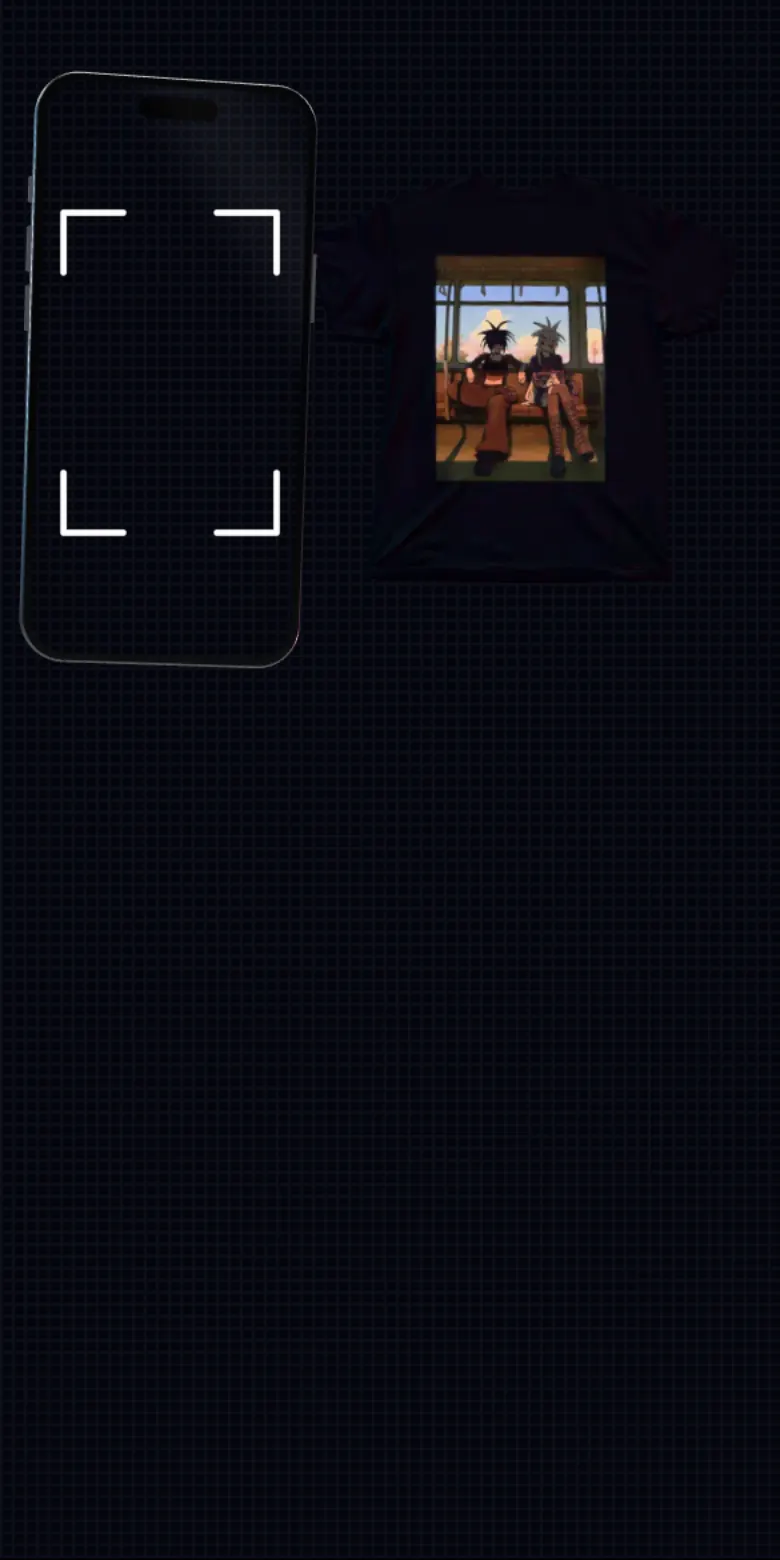
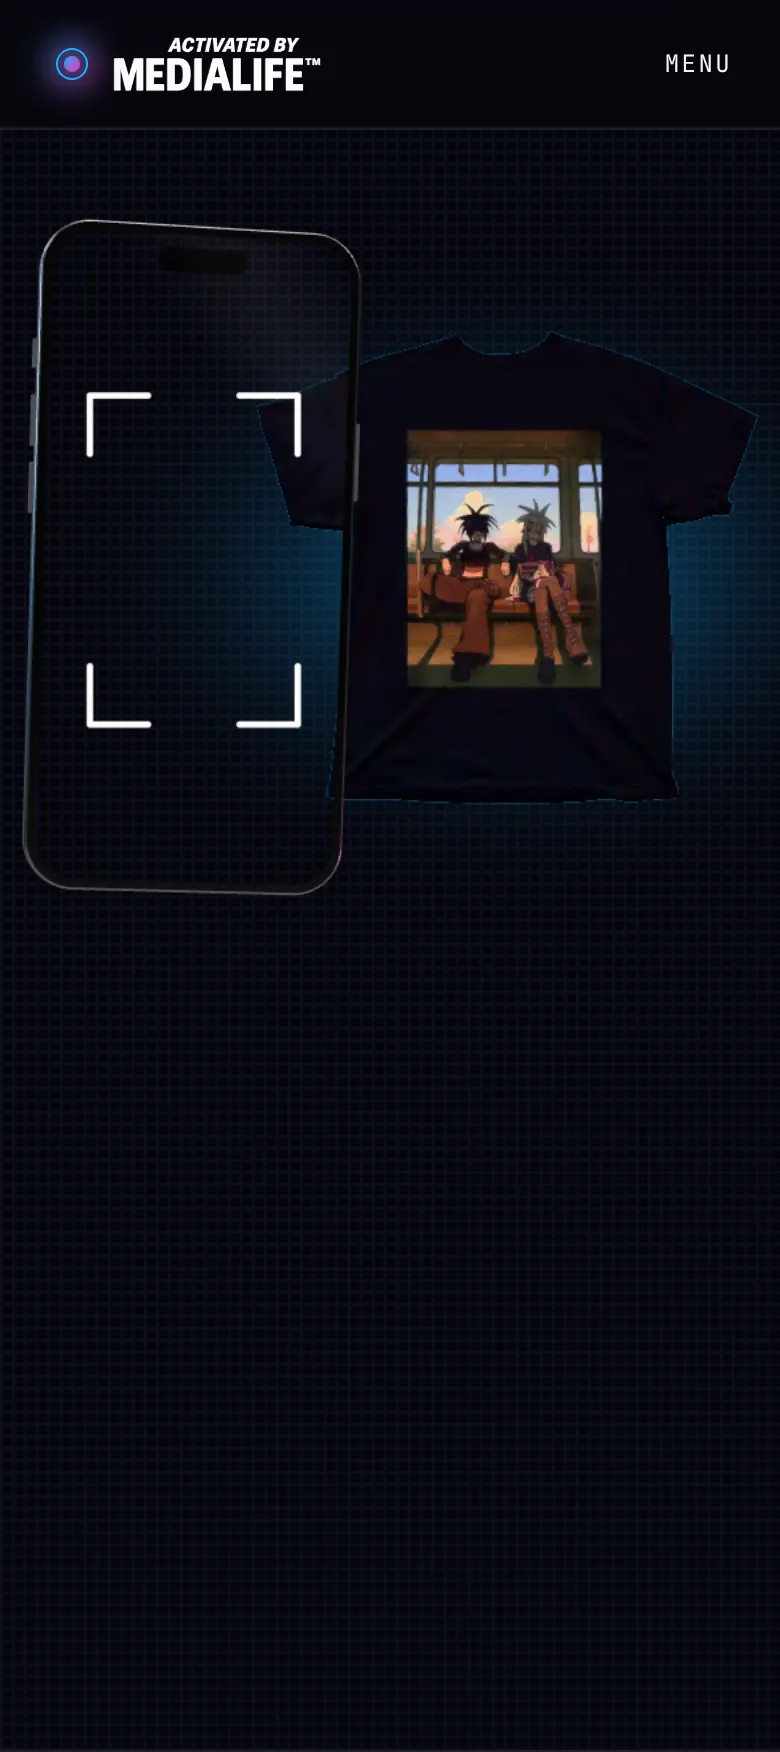
Homepage hero: mobile titles and taller stage, accent glow behind pieces
- Phones: the hero is a little taller, with a bigger phone and pieces, and
  each piece's title sits over the stage: Activated apparel, Immersive
  marketing, Immersive merchandising (title/detail in hero-slides.ts).
- A soft glow in the piece's accent sits behind it, so the black tee reads
  on the dark page (glow per slide).
- Posters regenerated.

Claude-Session: https://claude.ai/code/session_011BHdrdXLD92kz8Hk5bHre9

diff --git a/src/components/home/ar-stage.ts b/src/components/home/ar-stage.ts
@@ -53,7 +53,7 @@ export type ArEvents = {
   /** The phone follows the mouse (true), or holds still on a live design (false). */
   onFollow?: (following: boolean) => void;
   /** On resize: the stage area (CSS px, relative to the canvas). */
-  onLayout?: (r: { x: number; y: number; w: number; h: number }) => void;
+  onLayout?: (r: { x: number; y: number; w: number; h: number }, tall: boolean) => void;
   /** Each frame while it shows: the NFC hotspot on the page (CSS px), and whether the phone covers it. */
   onHotspot?: (h: { x: number; y: number; r: number; covered: boolean } | null) => void;
   /** Bobo collected a can (0 when the game resets). */
@@ -89,6 +89,8 @@ const FOV = 30;
 const MAX_W = 1480;
 /** Room left under the stage for the tabs (CSS px). */
 const TABS_H = 50;
+/** Phones: room above the stage for the piece's title (Hero.tsx) */
+const TITLE_H = 92;
 
 /* Phone proportions (a modern 6.1" phone, in its own units). */
 const PH_W = 0.71;
@@ -179,6 +181,8 @@ type Slide = {
   hub: THREE.Group | null;
   /** A copy of the piece, shown as a hologram beside the stage when another piece is up */
   side: THREE.Group | null;
+  /** A soft accent glow behind the piece, so dark pieces (the black tee) read on the dark page */
+  glow: THREE.Mesh<THREE.PlaneGeometry, THREE.ShaderMaterial> | null;
 };
 
 type Px = { x: number; y: number };
@@ -401,6 +405,7 @@ export class ArStage {
         hotspot: null,
         hub: null,
         side: null,
+        glow: null,
       };
     });
     this.cur = this.next = Math.max(0, Math.min(defs.length - 1, opts.start ?? 0));
@@ -747,6 +752,15 @@ export class ArStage {
           .catch((e) => console.warn("[ar] display", e));
       }
       s.side = this.sideOf(s);
+      if (def.glow) {
+        const gl = glowPlane(def.accent);
+        const ctr = s.box.getCenter(new THREE.Vector3());
+        gl.position.set(ctr.x, ctr.y, s.box.min.z - 0.05);
+        gl.scale.set((s.box.max.x - s.box.min.x) * 1.9, (s.box.max.y - s.box.min.y) * 1.5, 1);
+        gl.layers.set(L_PIECE);
+        s.group.add(gl);
+        s.glow = gl;
+      }
       s.loaded = true;
       if (!this.running) this.renderOnce();
     } catch (err) {
@@ -820,7 +834,7 @@ export class ArStage {
     } else {
       this.phGoal = this.clampPhone(this.phGoal.x, this.phGoal.y);
     }
-    this.events.onLayout?.(this.lay.stage);
+    this.events.onLayout?.(this.lay.stage, this.tall);
     if (!this.running) this.renderOnce();
   }
 
@@ -864,25 +878,26 @@ export class ArStage {
         popR: Math.min(st.w * 0.3, st.h * 0.42),
       };
     }
-    // stage above the text
-    const bottom = c ? Math.max(h * 0.36, c.y - 56) : h * 0.5;
-    const st = { x: 0, y: h * 0.02, w, h: bottom - h * 0.02 };
+    // stage above the text, under the piece's title
+    const bottom = c ? Math.max(h * 0.4, c.y - 48) : h * 0.55;
+    const top = h * 0.01 + TITLE_H;
+    const st = { x: 0, y: top, w, h: bottom - top };
     const use = st.h - TABS_H;
     const cx = st.x + st.w / 2;
     const cy = st.y + use / 2;
-    const piece = { x: cx + st.w * 0.17, y: cy };
-    const phoneH = Math.min(use * 0.94, (st.w * 0.36) / ratio);
+    const piece = { x: cx + st.w * 0.15, y: cy };
+    const phoneH = Math.min(use * 0.94, (st.w * 0.41) / ratio);
     return {
       side: null,
       stage: st,
       piece,
       pieceH: use * 0.9,
-      pieceW: st.w * 0.56,
+      pieceW: st.w * 0.64,
       back: { x: piece.x, y: cy - use * 0.3 },
       phone: { x: st.x + phoneH * ratio * 0.6, y: cy },
       phoneH,
       pop: { x: cx + st.w * 0.07, y: cy + st.h * 0.1 },
-      popR: Math.min(st.w * 0.36, st.h * 0.42),
+      popR: Math.min(st.w * 0.38, st.h * 0.42),
     };
   }
 
@@ -1366,6 +1381,7 @@ export class ArStage {
       // with a hideout behind the game, the piece makes way for it entirely
       const scale = sz * lerp(1, s.def.pop?.kind === "bobo" && s.def.pop.hub ? 0.001 : 0.5, popE);
       g.scale.setScalar(scale);
+      if (s.glow) s.glow.material.uniforms.uAmt.value = (s.def.glow ?? 0) * build * (1 - popE);
       // a gentle sway (less while a video plays, so it reads like a real print)
       const still = this.phase === "alive" ? 0.45 : 1;
       const sway = R ? 0 : Math.sin(t * 0.45) * (s.def.target.kind === "glb" ? 0.16 : 0.07) * still;
@@ -2417,6 +2433,37 @@ function colourMaterial() {
 }
 
 /* =================================================================== helpers */
+
+/** A soft radial glow in the piece's accent, drawn first, straight into the colour render. */
+function glowPlane(accent: "blue" | "magenta") {
+  const a = accentVec(accent);
+  // display values to linear (the render target holds linear light)
+  const lin = new THREE.Vector3(a.x ** 2.2, a.y ** 2.2, a.z ** 2.2);
+  const m = new THREE.Mesh(
+    new THREE.PlaneGeometry(1, 1),
+    new THREE.ShaderMaterial({
+      depthWrite: false,
+      blending: THREE.NoBlending,
+      uniforms: { uCol: { value: lin }, uAmt: { value: 0 } },
+      vertexShader: /* glsl */ `
+        varying vec2 vUv;
+        void main() { vUv = uv; gl_Position = projectionMatrix * modelViewMatrix * vec4(position, 1.0); }
+      `,
+      fragmentShader: /* glsl */ `
+        varying vec2 vUv;
+        uniform vec3 uCol;
+        uniform float uAmt;
+        void main() {
+          float r = length((vUv - 0.5) * 2.0);
+          float a = uAmt * 0.42 * pow(smoothstep(1.0, 0.0, r), 1.5);
+          gl_FragColor = vec4(uCol * 0.9, a);
+        }
+      `,
+    }),
+  );
+  m.renderOrder = -10;
+  return m;
+}
 
 /**
  * The side holograms: the colour render of the other pieces, turned into a

diff --git a/src/components/home/Hero.tsx b/src/components/home/Hero.tsx
@@ -40,6 +40,8 @@ export function Hero() {
   const [spot, setSpot] = useState(0);
   const [steered, setSteered] = useState(false);
   const [blocked, setBlocked] = useState(false);
+  /** Phones and portrait screens: the stage sits above the copy, under the piece's title */
+  const [tall, setTall] = useState<boolean | null>(null);
   const slide = HERO_SLIDES[index];
   const cta = (slide.spots[spot] ?? slide.spots[0]).cta;
   const magenta = slide.accent === "magenta";
@@ -109,7 +111,8 @@ export function Hero() {
                 setScrW(r.w);
               }
             },
-            onLayout: (r) => {
+            onLayout: (r, isTall) => {
+              setTall(isTall);
               const el = overlayRef.current;
               if (!el) return;
               el.style.left = `${r.x}px`;
@@ -214,7 +217,7 @@ export function Hero() {
       id="top"
       aria-labelledby="hero-title"
       aria-roledescription="carousel"
-      className="hero relative isolate h-[calc(100svh-4rem)] min-h-[620px] max-h-[1100px] overflow-hidden border-b border-white/10 bg-[#05060c]"
+      className="hero relative isolate h-[calc(100svh-4rem+96px)] min-h-[760px] max-h-[1100px] overflow-hidden lg:h-[calc(100svh-4rem)] lg:min-h-[620px] border-b border-white/10 bg-[#05060c]"
     >
       {/* Poster: what you see before WebGL (and if it never comes). */}
       <picture>
@@ -232,6 +235,25 @@ export function Hero() {
         aria-hidden
         className={`absolute inset-0 h-full w-full touch-pan-y transition-opacity duration-700 ${ready ? "opacity-100" : "opacity-0"}`}
       />
+
+      {/* Phones: what this kind of piece is, over the stage */}
+      <div
+        className={`pointer-events-none absolute inset-x-0 top-0 z-20 px-5 pt-3 sm:px-8 ${tall === null ? "lg:hidden" : tall ? "" : "hidden"}`}
+      >
+        <div key={slide.key} className="animate-fade-in">
+          <p className="mono flex items-center gap-2 text-[10px] uppercase tracking-[0.22em] text-white/55">
+            <span className={`h-1.5 w-1.5 rounded-full ${accentBg}`} aria-hidden />
+            {String(index + 1).padStart(2, "0")} / {String(HERO_SLIDES.length).padStart(2, "0")}
+            <span aria-hidden>·</span>
+            {slide.tab}
+          </p>
+          <p className="display mt-1.5 text-[clamp(28px,8vw,44px)] leading-[0.95] text-white">
+            {slide.title.split(" ")[0]}{" "}
+            <span className={accentText}>{slide.title.split(" ").slice(1).join(" ")}</span>
+          </p>
+          <p className="mt-1.5 text-[13px] leading-snug text-white/65">{slide.detail}</p>
+        </div>
+      </div>
 
       {/* The NFC hotspot's label, beside the tag on the piece (ar-stage.ts draws the tag). */}
       {slide.spots.some((x) => x.hotspot) && (

diff --git a/src/components/home/hero-slides.ts b/src/components/home/hero-slides.ts
@@ -80,6 +80,11 @@ export type HeroSlide = {
   aim: string;
   /** Hologram and highlight colour, alternating blue / magenta */
   accent: "blue" | "magenta";
+  /** On phones, the title over the stage (what this kind of piece is) and one line on it */
+  title: string;
+  detail: string;
+  /** A soft glow in the accent behind the piece (0..1), so it reads on the dark page */
+  glow?: number;
   /** One sentence for screen readers when the slide changes */
   describe: string;
   /** The piece: a 3D model, or printed cards (one per spot) */
@@ -104,6 +109,9 @@ export const HERO_SLIDES: HeroSlide[] = [
     tab: "Apparel",
     aim: "the tee",
     accent: "blue",
+    title: "Activated apparel",
+    detail: "Point a phone at the print and the artwork plays.",
+    glow: 1,
     describe: "An activated tee: point a phone at the print and the artwork animates.",
     target: { kind: "glb", src: "/activated-merch/models/trainwreck-tee.glb", rotY: Math.PI },
     spots: [
@@ -142,6 +150,9 @@ export const HERO_SLIDES: HeroSlide[] = [
     tab: "Print",
     aim: "a print",
     accent: "magenta",
+    title: "Immersive marketing",
+    detail: "Netflix posters and stickers that come alive when scanned.",
+    glow: 0.45,
     describe:
       "Activated print for Netflix: the ONE PIECE Den of Geek poster and a Sakamoto Days sticker. Point the phone at either and it animates.",
     target: { kind: "cards" },
@@ -183,6 +194,9 @@ export const HERO_SLIDES: HeroSlide[] = [
     tab: "Game",
     aim: "the NFC tag",
     accent: "blue",
+    title: "Immersive merchandising",
+    detail: "Tap the keychain to play Cola Run and unlock a reward.",
+    glow: 0.55,
     describe:
       "The EVADE Bobo keychain: point the phone at its NFC tag and the EVADE Cola Run game pops out, with Bobo's Hideout behind it. Collect three cans to unlock a digital reward.",
     target: { kind: "glb", src: "/activated-merch/models/evade-charms.glb" },
@@ -214,6 +228,8 @@ export const RETAIL_SLIDE: HeroSlide = {
   tab: "Retail",
   aim: "the sign",
   accent: "magenta",
+  title: "Activated retail",
+  detail: "Scan the sign and a mini EVADE display pops out.",
   describe: "An EVADE in-store sign: scanned, a mini EVADE retail display pops out.",
   target: { kind: "cards" },
   spots: [

diff --git a/README.md b/README.md
@@ -121,6 +121,11 @@ joystick, reward card).
   back interrupts it), pushes every frame to the GPU, and plays with reduced motion too
   (the visitor brought it alive). If the browser refuses autoplay, the still shows with a
   "Click to play" hint and the next click or tap plays it.
+- Phones (portrait): the hero is a little taller, and the piece's title sits over the
+  stage (`title` and `detail` in `hero-slides.ts`): Activated apparel, Immersive
+  marketing, Immersive merchandising.
+- A soft glow in the piece's accent sits behind it (`glow` in `hero-slides.ts`), so the
+  black tee reads on the dark page.
 - A piece can hold several designs ("spots"). Print has two: the ONE PIECE x Den of Geek
   poster and a Sakamoto Days sticker; each has its own video and button.
 - Each design's button is styled after its own print (`.ar-cta--<theme>` in
